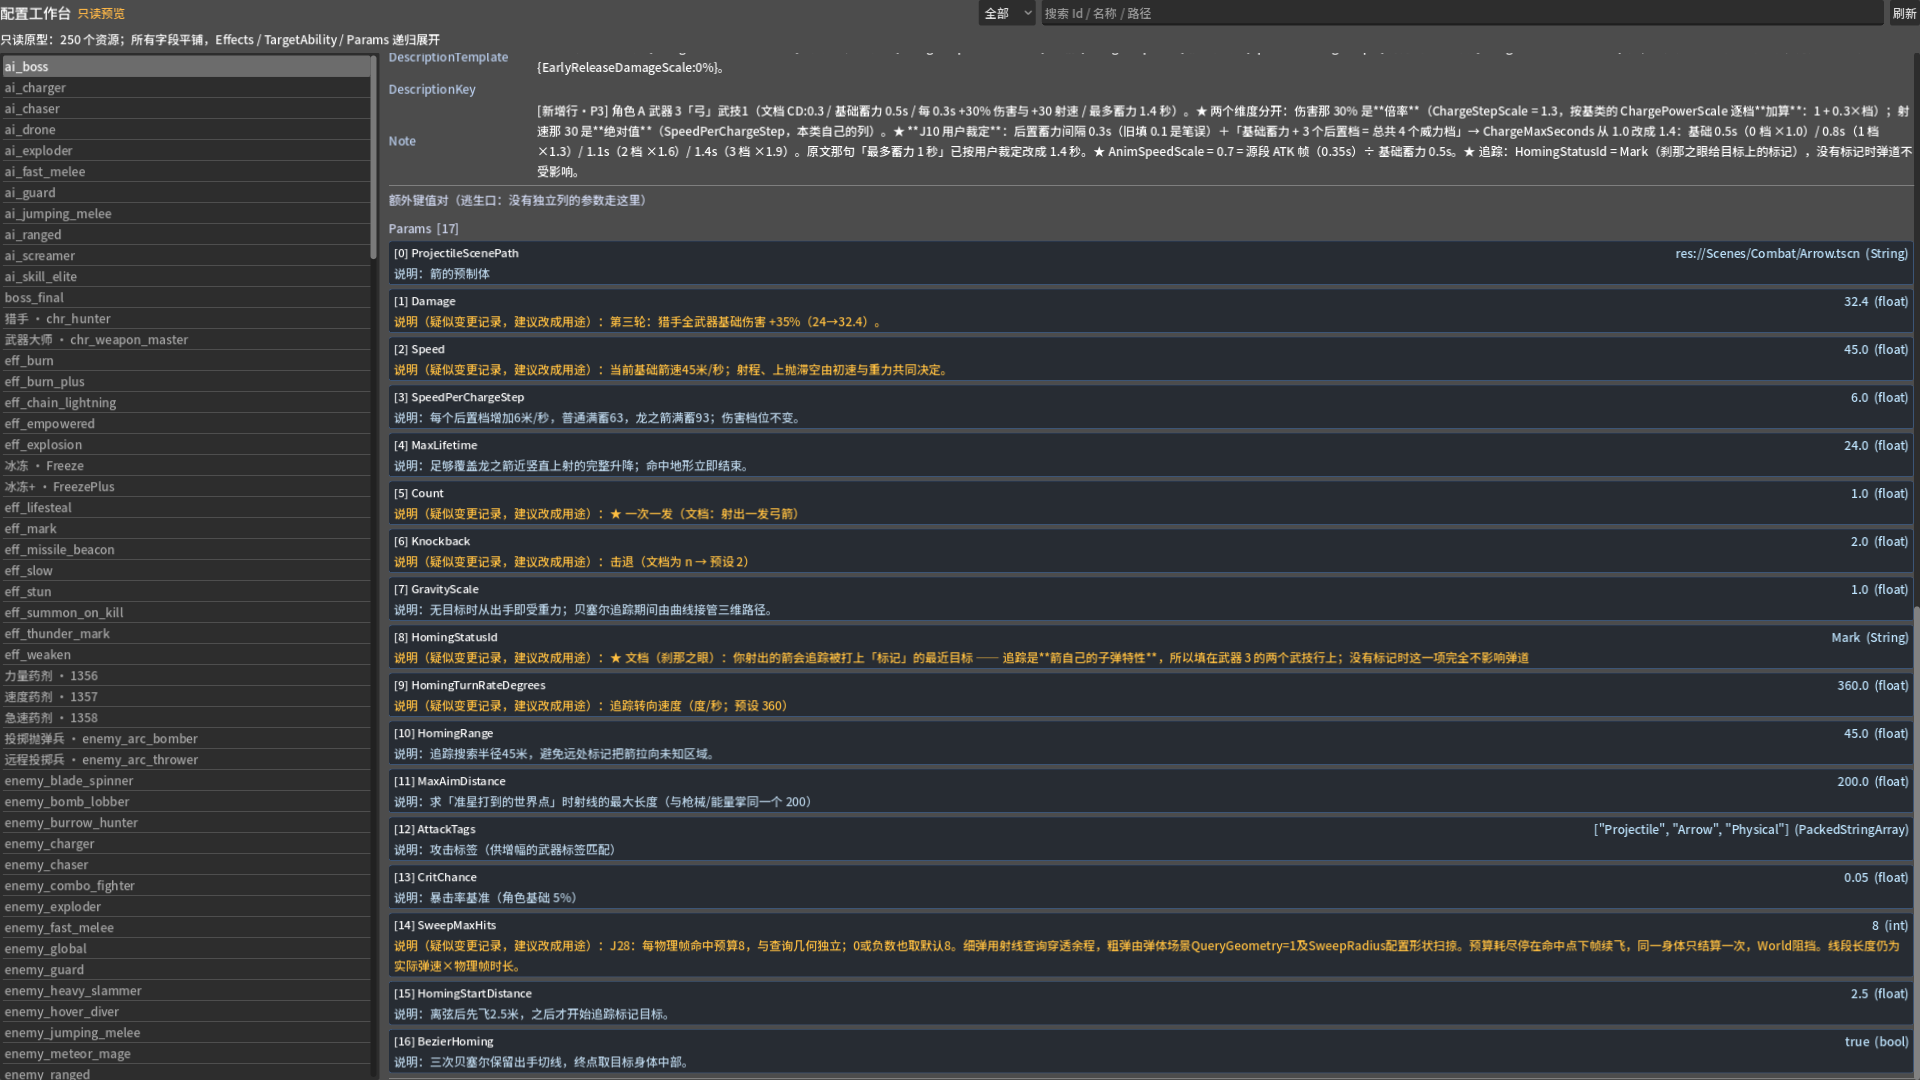
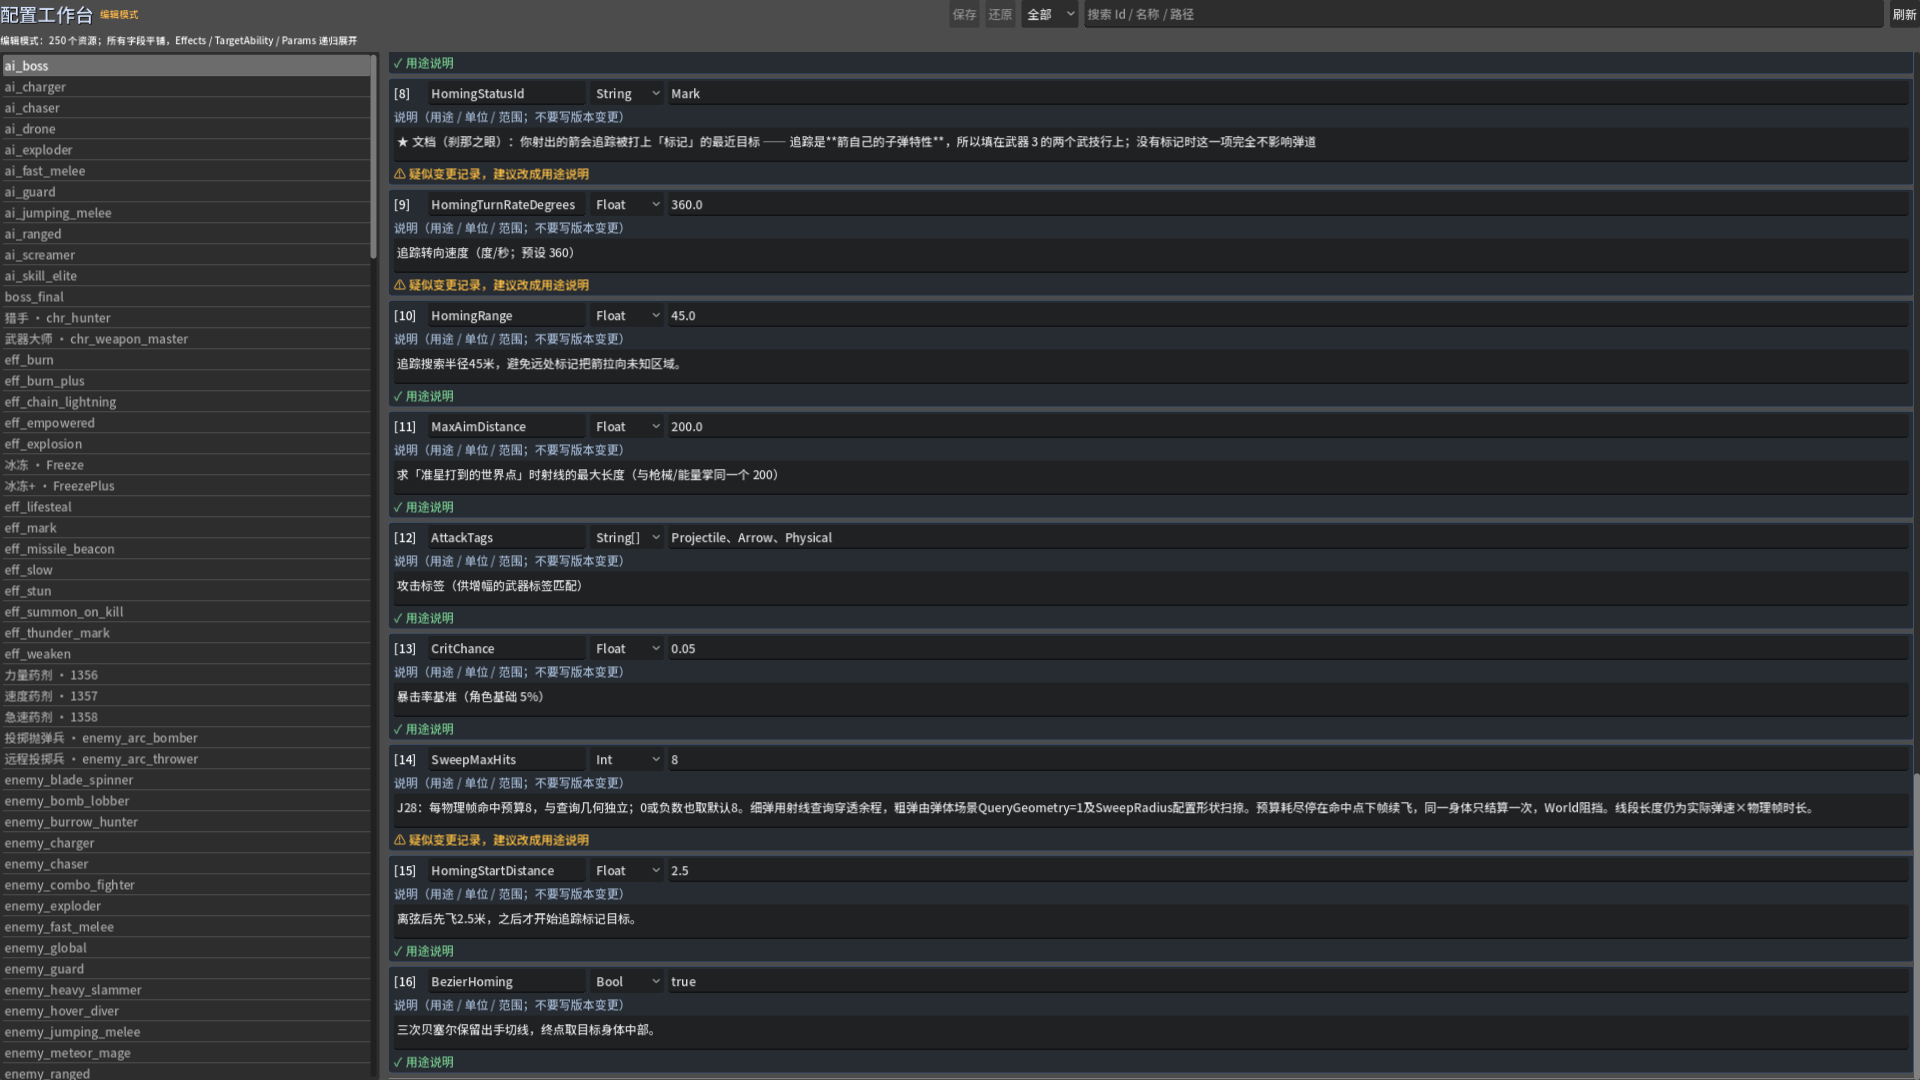
feat: enable config workbench inline editing and nested cards

diff --git a/docs/reviews/20261101/config-workbench-prototype.md b/docs/reviews/20261101/config-workbench-prototype.md
@@ -1,12 +1,12 @@
-# 配置工作台 0.1：只读平铺原型
+# 配置工作台 0.2：平铺编辑
 
-2026-11-01。按“先做只读平铺原型”的方向落地第一版；不改 `.tres` 数据，不接保存。
+2026-11-01。按“先做平铺原型，再接编辑”的路线落地；`.tres` 仍是唯一数据源。
 
 ## 已实现
 
 - 新插件 `addons/config_workbench/`，已加入 `project.godot` 的 `editor_plugins`。
 - 编辑器主页面「配置工作台」（`_has_main_screen()`，和 ResourceTable 一样是顶部页签，不是侧边 Dock）：
-  - 顶部栏：标题、只读徽标、表筛选、搜索、刷新；
+  - 顶部栏：放大/变色的标题、编辑徽标、表筛选、搜索、刷新、保存、还原；
   - 自适应：左侧固定 20%，右侧 80%；上下铺满编辑器主页面；
   - 左侧按表筛选：技能 / 增幅 / 敌人 / 角色 / 武器 / Boss / 效果 / 符文 / 节点 / AI；
   - 顶部搜索 Id、名称、路径；
@@ -19,10 +19,16 @@
   - 递归上限 10 层，带循环检测。
 - “打开”使用 deferred 调用，避免按钮 `pressed` 信号发射期间销毁表单导致
   `freed while signal is being emitted`。
+- 编辑：
+  - bool / int / float / string / enum / `PackedStringArray` 标量可编辑；
+  - `ParamEntry` 的 Key、值类型、值、说明可编辑；
+  - 嵌套 Effect / TargetAbility / 内嵌子资源字段可编辑；
+  - 保存按 `_dirty` 里的真实 Resource 写回，避免“路径重新 load 出另一份默认值”；
+  - 未保存计数、保存、还原；Ctrl+S / Ctrl+R。
 - `ParamEntry` 专用卡：
-  - `Key` / `Value` / `Value` 类型 / `说明` 直接展示；
+  - `Key` / `Value` / `Value` 类型 / `说明` 直接编辑；
   - `说明` 为空或命中 `★|文档|第…轮|Jxx|验收|修复|用户|当前` 时标黄，提示改成用途说明。
-- 无编辑器预览：`Scenes/Debug/_ConfigWorkbenchPreview.tscn`，加载真实 `reward_1351` 和 `skl_a3_w1_1` 并截图。预览脚本**不是 `@tool`**，并带 `Engine.is_editor_hint()` 保护，避免在编辑器里打开时创建第二个工作台或误调 `quit`。
+- 无编辑器预览：`Scenes/Debug/_ConfigWorkbenchPreview.tscn`，加载真实 `reward_1351` 和 `skl_a3_w1_1` 并截图。预览脚本**不是 `@tool`**，并带 `Engine.is_editor_hint()` 保护。
 
 ## 证据
 
@@ -34,17 +40,19 @@
 - 无头编辑器加载插件：无工作台脚本错误；MCP 端口冲突与现有插件重复加载是环境噪声。
 - 预览场景已改为非 `@tool`；上次编辑器闪退的根因是预览脚本在编辑器里执行 `get_tree().quit()`，现已移除。
 - 已接顶部主页面、20/80 分栏和全高布局；左侧宽度按主页面宽度实时重算。
+- 保存探针：临时资源 `Weight 1.0→1.23` 保存后磁盘回读通过（测试夹具已删除）。
 
 ## 当前限制
 
-- **只读**：字段是 Label，不接编辑、保存、撤销。
-- 外部资源只展开显示，不修改；后续编辑外部资源时必须明确保存目标。
+- 外部资源保存会明确写回该外部 `.tres`；当前没有“保存前确认”弹窗。
 - `ParamEntry.Note` 只做识别/标黄，未清洗现有 65 条旧说明。
 - 未做字段单位/范围元数据（如 MaxHealth 点、Cooldown 秒）。
+- 数组本身（Effects 增删、Skills 增删、字符串数组逐项）未做结构编辑；字段值可改。
+- 未接撤销（Ctrl+Z）；目前是保存/还原。
 - 未做批量编辑；ResourceTable 仍可用于多行数值对比。
 
 ## 下一步建议
 
-1. 接标量、ParamEntry、Effects 内联编辑 + 保存/还原/脏标记。
-2. 给常用字段补单位/范围提示。
-3. 清洗 65 条旧 Note，统一为“作用对象 + 单位/范围 + 例外”。
+1. 给常用字段补单位/范围提示。
+2. 清洗 65 条旧 Note，统一为“作用对象 + 单位/范围 + 例外”。
+3. 接撤销、数组增删、外部资源保存确认。
